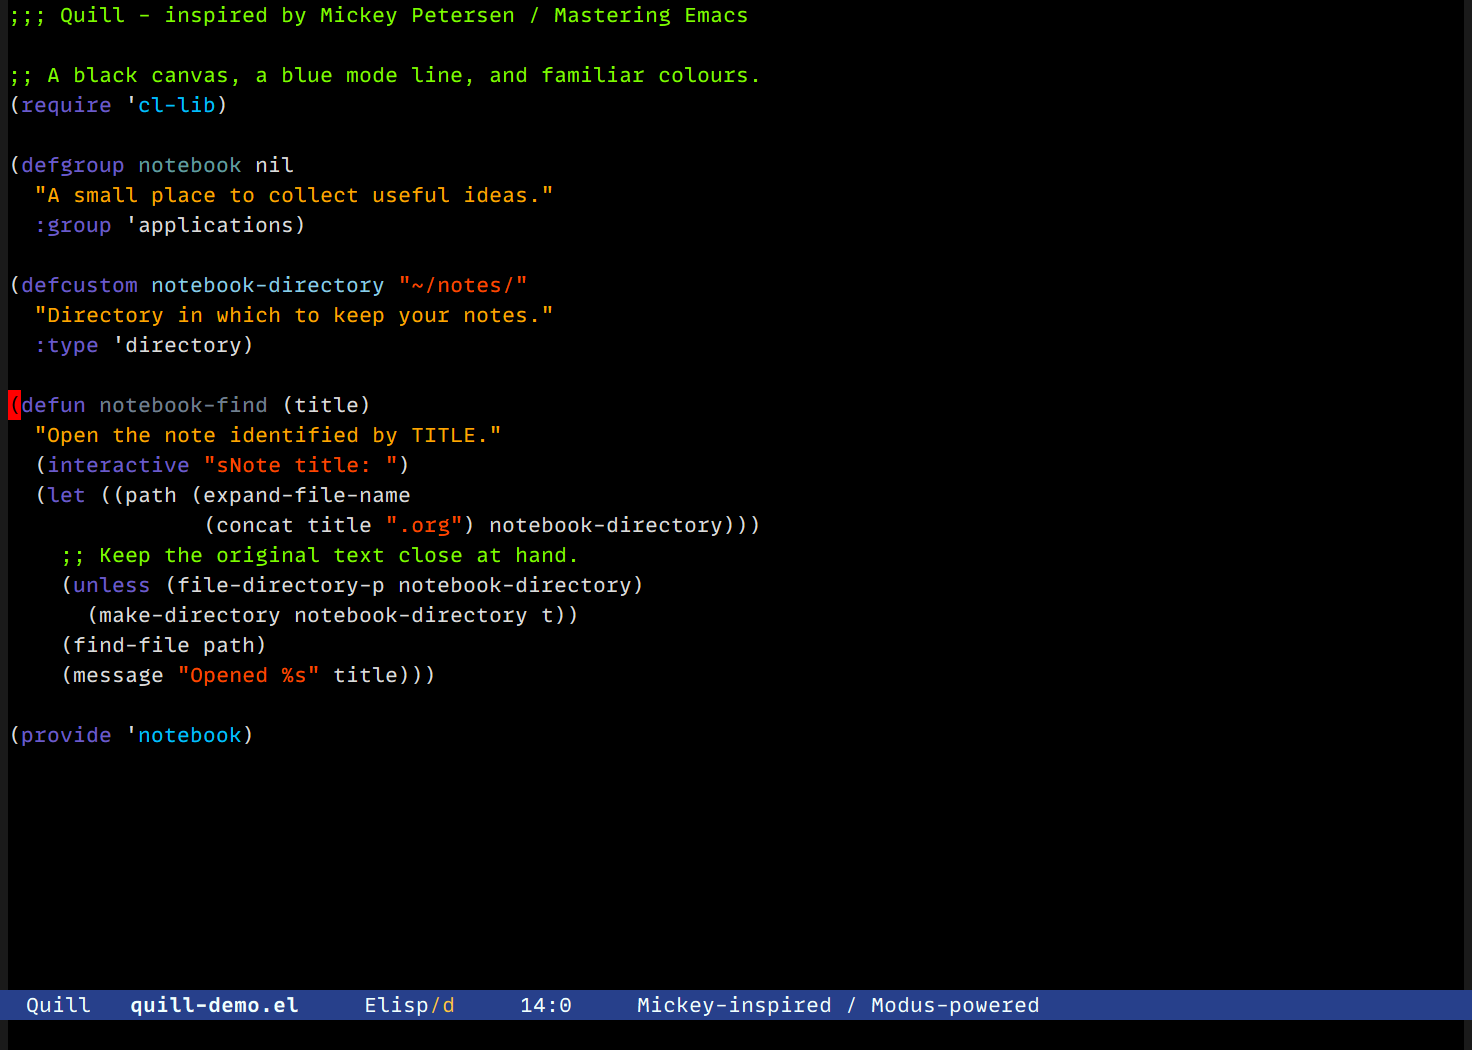
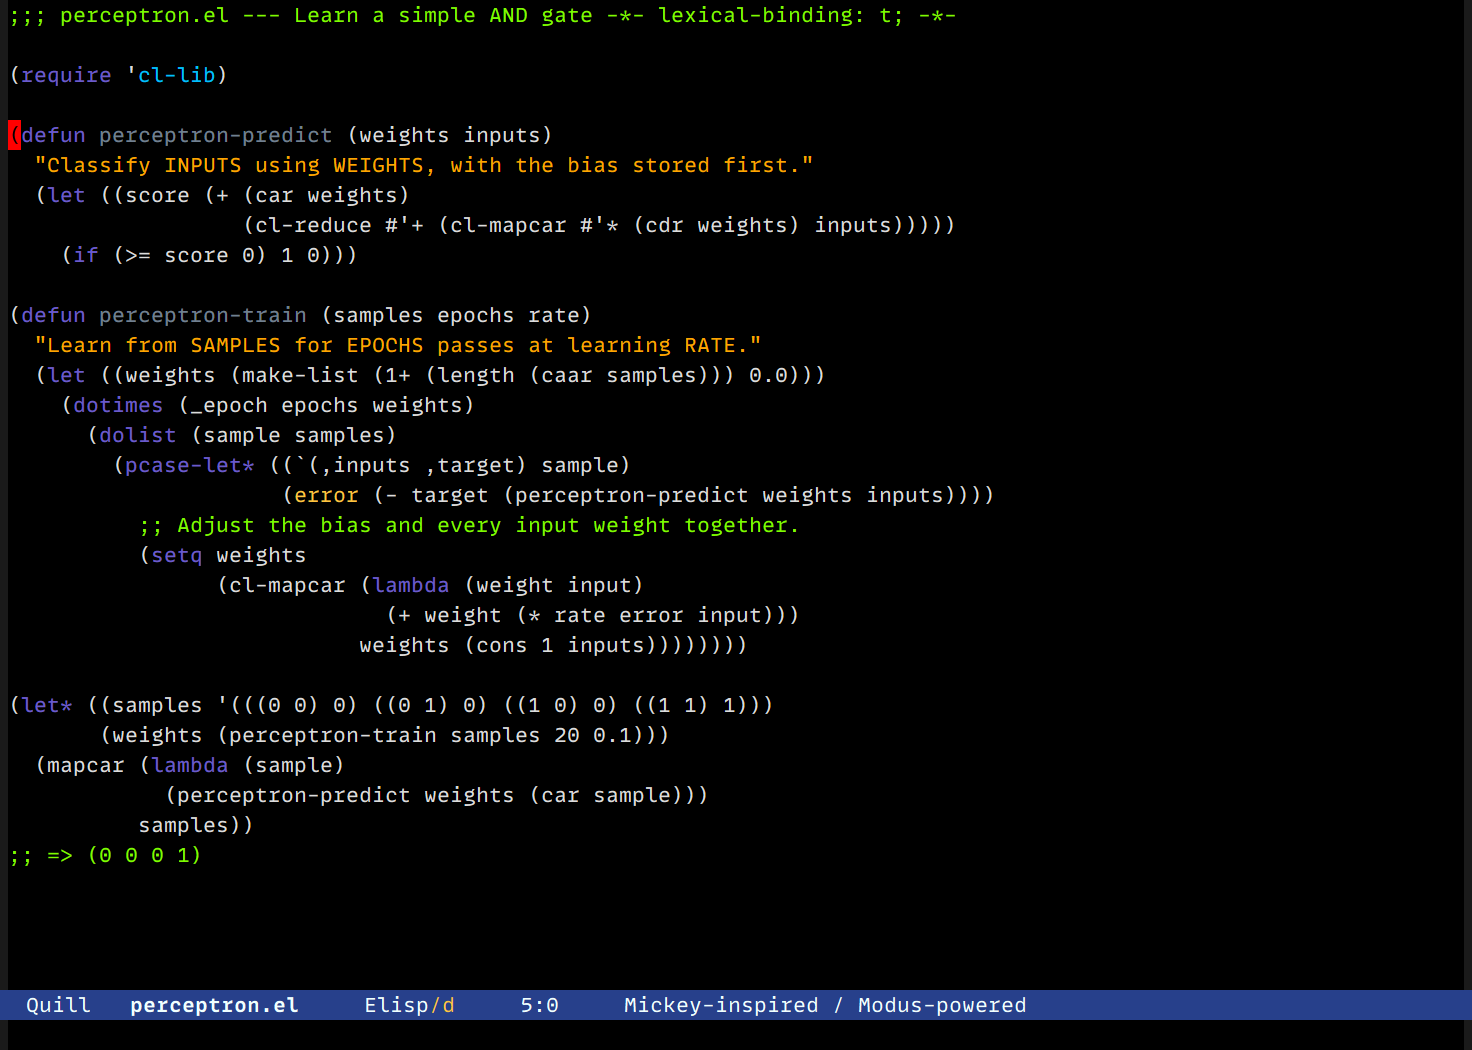
Show a single-window Lisp perceptron in both theme previews

diff --git a/README.md b/README.md
@@ -9,10 +9,11 @@ Org code blocks and their begin/end lines share the black buffer background.
 By default, fringes and inactive mode lines are black, with thin grey separators
 and a line above each mode line. The original Mickey-inspired UI is an alternative.
 
-![Quill's default minimal UI in Emacs](docs/preview-minimal.png)
+![Quill's default UI showing a Lisp perceptron in one Emacs window](docs/preview-minimal.png)
 
 Preview font: **MonoLisa Variable**, 12 pt ([render verification](docs/preview-font.txt)).
 The font is not bundled with the theme.
+Example code: [a perceptron learning an AND gate](examples/perceptron.el).
 
 The name **Quill** honours Mickey's work as a writer and teacher. This is an
 **unofficial, independently implemented theme**, not Mickey's configuration or
@@ -111,7 +112,7 @@ put them in `init.org` and tangle instead.
 
 ### Mickey-inspired alternative
 
-![Original Mickey-inspired UI with grey fringes](docs/preview.png)
+![Mickey-inspired alternative showing the same Lisp perceptron](docs/preview.png)
 
 Turn **Quill Minimal Ui** off in Customize, use `M-x quill-toggle-minimal-ui`,
 or set the option before loading:
@@ -182,7 +183,7 @@ When Emacs bundles Modus 5.2+, omit `-L /path/to/modus-themes`.
 The tests exercise loading/disabling/reloading, palette resolution and overrides,
 upstream palette isolation, face coverage, and package metadata.
 
-`tools/preview.el` creates the preview in a separate Windows Emacs 31 GUI process
+`tools/preview.el` creates both single-window perceptron previews in a separate Windows Emacs 31 GUI process
 using `w32-export-frame`, then exits. It does not load your init file.
 `tools/research.py` refreshes the local source cache using Python, requests,
 BeautifulSoup4 and Pillow; `tools/render-references.py` renders cached SVGs
